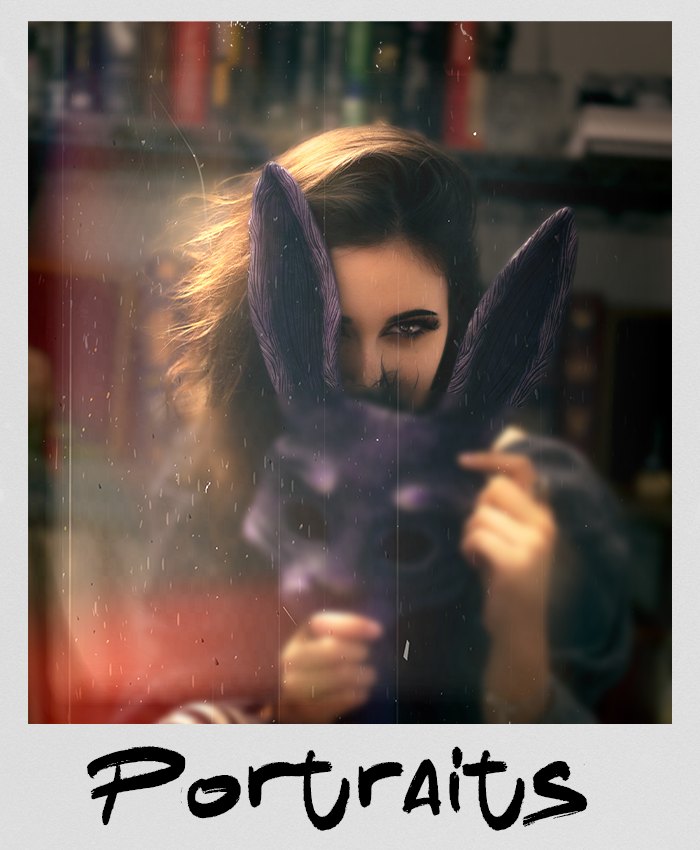
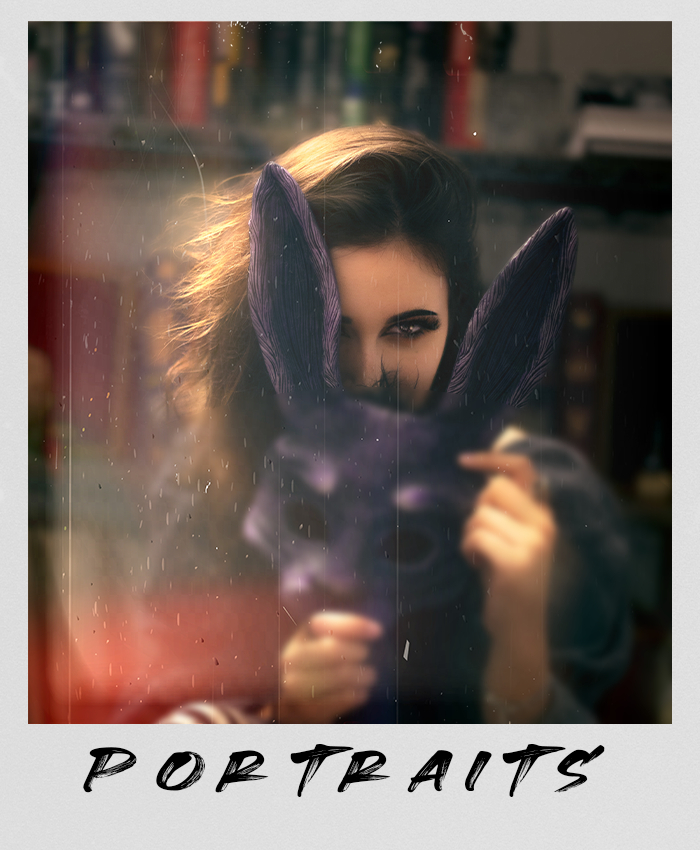
Polaroids

Changed region(s): [[0.12, 0.8565, 0.87, 0.9788]]

diff --git a/Index.html b/Index.html
@@ -117,7 +117,7 @@
 <body>
     <!-- Splash Page -->
     <section id="splash">
-        <img src="images/logo/camplogoinvert.png" alt="Sean Griffin Creates Logo" class="max-w-xs mx-auto">
+        <img src="images/logo/NewCampLogo.png" alt="Sean Griffin Creates Logo" class="max-w-xs mx-auto">
     </section>
 
     <!-- Content Section with Nav and Gallery -->
@@ -138,7 +138,7 @@
 <!-- Gallery Section -->
 <div id="photos" class="gallery grid grid-cols-1 sm:grid-cols-2 md:grid-cols-3 lg:grid-cols-5 gap-4 py-12 px-4 max-w-6xl mx-auto mt-20">
     <a href="portraits.html" class="text-center text-white">
-        <img src="images/Site Buttons/portrait mobile.png" alt="Portraits" class="w-full h-auto">
+        <img src="images/Site Buttons/PortraitPolaroid.png" alt="Portraits" class="w-full h-auto">
         <p class="mt-2">Portraits</p>
     </a>
     <a href="boudoir.html" class="text-center text-white">
